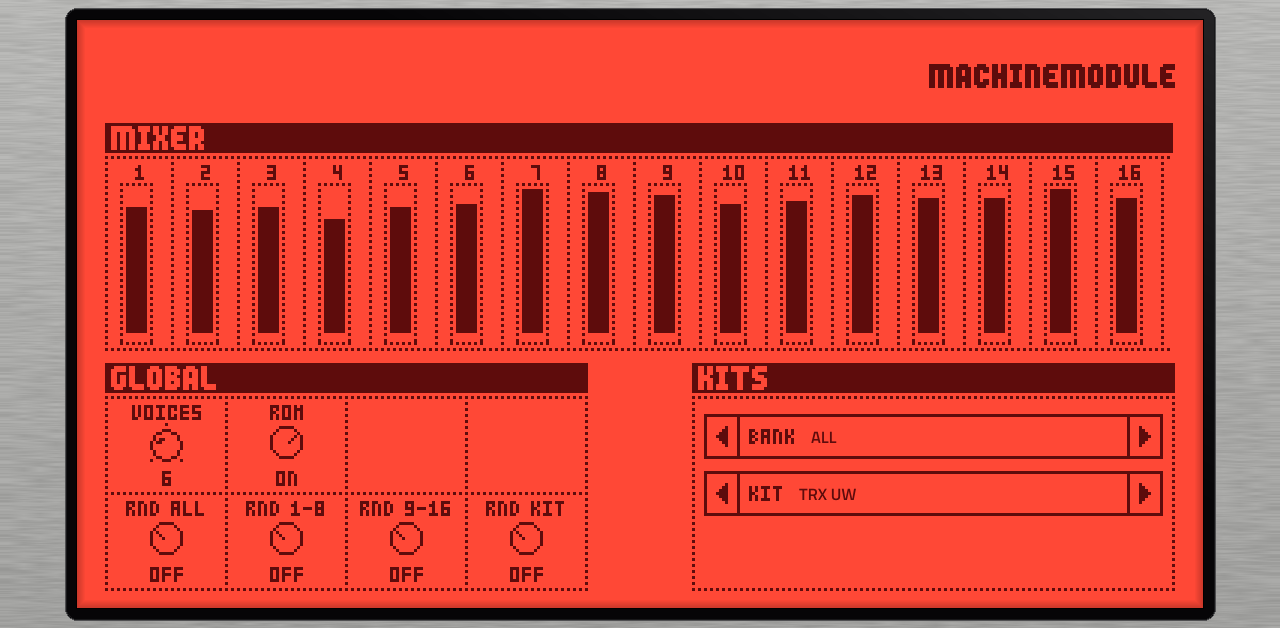
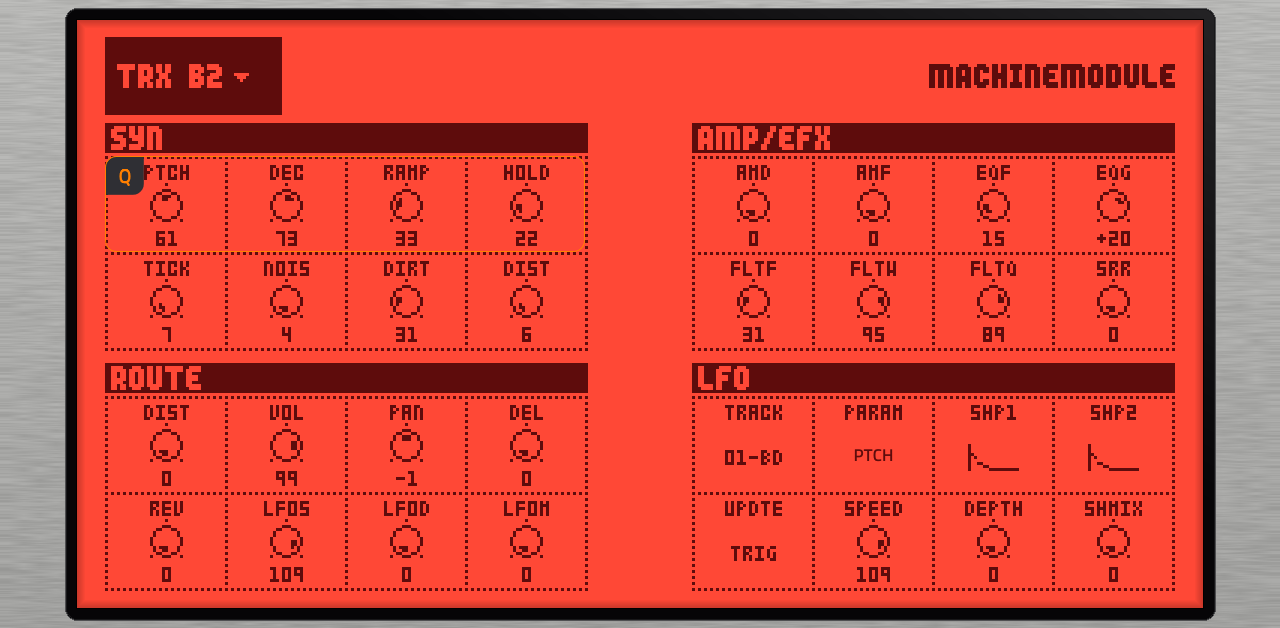
VOICES defaults to 16; the Gen2 skin has no ROM switch; screenshot is track 1
The voice budget default goes from 6 to 16 (a Live III runs 16 busy tracks at about 0.65 of a core with no
underruns once running). The Gen2 download's skin (skin_recipe.py: rom=0) leaves the ROM cell out: the JIT
build gains nothing from switching ROM machines off. The parameter stays (a Force build can still use it).

Claude-Session: https://claude.ai/code/session_01NAv23P1HLEJxTkDV8B6T4B

diff --git a/tools/mdskin/mk_skin.py b/tools/mdskin/mk_skin.py
@@ -757,11 +757,12 @@ mcv.dots_h(0, MW - 1, GRID_Y); mcv.dots_v(TRACKS * MCW, GRID_Y, PAGE_LCD_H - 1);
 mx0, my0 = page_origin("SYN")
 gbg = TRACK_CHASSIS.copy()
 gbg.paste(mcv.image(), (mx0, my0))
-GLOBAL_CELLS = [P("VOICES", default=42, fmt=lambda raw: str(1 + int(round(raw * 15 / 127.0)))),
-                P("ROM", "toggle", default=127), P(""), P(""),
+ROM_SWITCH = args.get("rom", "1") != "0"   # rom=0 (the Gen2 download): no ROM cell; the JIT build gains nothing from switching ROM machines off
+GLOBAL_CELLS = [P("VOICES", default=127, fmt=lambda raw: str(1 + int(round(raw * 15 / 127.0)))),
+                P("ROM", "toggle", default=127) if ROM_SWITCH else P(""), P(""), P(""),
                 P("RND ALL", "toggle"), P("RND 1-8", "toggle"), P("RND 9-16", "toggle"), P("RND KIT", "toggle")]
 # top row: VOICES and ROM (the settings); bottom row: the four randomise toggles
-GLOBAL_KEYS = ["max_voices", "rom_enabled", None, None, "randomize_all", "randomize_1_8", "randomize_9_16", "randomize_kit"]
+GLOBAL_KEYS = ["max_voices", "rom_enabled" if ROM_SWITCH else None, None, None, "randomize_all", "randomize_1_8", "randomize_9_16", "randomize_kit"]
 gcv = page_canvas("ROUTE", GLOBAL_CELLS, "GLOBAL")
 gbg.paste(gcv.image(), page_origin("ROUTE"))
 gbg.paste(KITS_IMG, (kits_x, kits_y))
@@ -802,7 +803,7 @@ tkey = "mdToggleTouch"
 defs[tkey] = ss._local(tkey, [ss._action("Mouse Down", "Q-Link"), ss._action("Enter Pressed", "Toggle Switch")],
                        [ss._focus(TOUCH_W, TOUCH_H), ss._button("clear.png", "clear.png", 1, 1, TOUCH_W, TOUCH_H)])
 gx0, gy0 = page_origin("ROUTE")
-for k_ in (1, 4, 5, 6, 7):   # ROM on/off (the only one that stays set), then the four randomise toggles
+for k_ in ((1, 4, 5, 6, 7) if ROM_SWITCH else (4, 5, 6, 7)):   # ROM on/off (the only one that stays set), then the four randomise toggles
     p_, key_p = GLOBAL_CELLS[k_], GLOBAL_KEYS[k_]
     imgs = {}
     for state, raw in (("on", 127), ("off", 0)):

diff --git a/vst/engine.cpp b/vst/engine.cpp
@@ -391,7 +391,7 @@ struct Inst
 		for(auto& t : synUntouched) for(auto& u : t) u.store(true);
 		param[kSlotTempo].store(120);
 		param[kSlotRomEnabled].store(1);
-		param[kSlotMaxVoices].store(6);	// the VOICES knob's default (gen_params.py): a cost budget, ROM voices count double
+		param[kSlotMaxVoices].store(16);	// the VOICES knob's default (gen_params.py): a cost budget, ROM voices count double
 		// Matches gen_params.py's declared defaults: the host normally pushes these via set_param right
 		// after create(), but this is what plays if render() is called before that (or from a host that
 		// doesn't restore params on creation).

diff --git a/vst/gen_params.py b/vst/gen_params.py
@@ -56,7 +56,7 @@ for t in range(16):
     sections.append(("TRACK %d" % (t + 1), keys))
 
 params.append({"key": "tempo", "name": "Tempo", "min": 30, "max": 300, "default": 120, "display": "int"})
-params.append({"key": "max_voices", "name": "Voice Budget", "min": 1, "max": 16, "default": 6, "display": "int"})
+params.append({"key": "max_voices", "name": "Voice Budget", "min": 1, "max": 16, "default": 16, "display": "int"})
 sections.append(("GLOBAL", ["tempo", "max_voices", "rom_enabled"]))
 
 # Machine picker "open" flags (HANDOFF.md, "Machine picker: duplicating Monomodule's own design").

diff --git a/tools/mdskin/skin_recipe.py b/tools/mdskin/skin_recipe.py
@@ -29,7 +29,7 @@ from PIL import Image
 HERE = os.path.dirname(os.path.abspath(__file__))
 ROOT = os.path.dirname(os.path.dirname(HERE))
 # the two skins, as build_skin.sh makes them: (generator, its arguments after art.json, the output dir relative to <run dir>)
-SKINS = [("mk_skin.py", ["{machines}", "vst/params.json"], "main"),
+SKINS = [("mk_skin.py", ["{machines}", "vst/params.json"], "main", ["rom=0"]),
          ("mk_tap_skin.py", ["vst/tapfx/params.json"], "tapfx", ["fx"])]
 
 

diff --git a/README.md b/README.md
@@ -53,7 +53,7 @@ A first-generation Force has four slow ARM cores shared with MPC itself, so some
   reverb and delay sends come out through the taps (below) so MPC's own effects can do that job.
 - **Taps: each track or send on its own MPC track** (added; see below). The Machinedrum's individual outputs become separate
   MPC tracks, submixes or return tracks to be processed by MPC OS insert effects.
-- **Voice budget, default 6** (added). The VOICES knob on GLOBAL is a CPU budget, not a plain voice count. Most machines cost
+- **Voice budget, default 16** (added; it was 6 until 0.5.0 - lower it on a Force, which can sound only about 6 busy voices). The VOICES knob on GLOBAL is a CPU budget, not a plain voice count. Most machines cost
   1 unit and the ROM (sample) machines cost 2, matching what they cost the Force's CPU. When a trigger would go past the
   budget, the oldest sounding track is cut, tail included. The real Machinedrum always plays all 16 tracks.
 - **Silence release** (added). A track whose sound has died away (below -96 dBFS for 100 ms, under the plugin's 16-bit
@@ -61,7 +61,7 @@ A first-generation Force has four slow ARM cores shared with MPC itself, so some
   same as a normal retrigger (noise-based machines start a fresh noise sequence, as any two hits differ anyway).
 - **The voices render on three threads** (the real Machinedrum has one voice DSP). Each thread runs its own copy of the
   voice DSP for some of the tracks, balanced by what they cost.
-- **ROM on/off switch** (GLOBAL, on by default). Off, tracks on a ROM machine stay silent and the randomiser leaves ROM
+- **ROM on/off switch** (GLOBAL, on by default; the Gen2 download has no switch, because the JIT build gains nothing from it). Off, tracks on a ROM machine stay silent and the randomiser leaves ROM
   machines out; each track keeps its ROM setting. The quickest way to make a busy kit safe.
 - **Randomise** (GLOBAL): machines on all tracks, tracks 1-8, tracks 9-16, or a random kit.
 - **GLOBAL tab:** a 16-track level mixer, VOICES, ROM, randomise, and the bank and kit selectors.
@@ -222,8 +222,9 @@ you reload the plugin once afterwards). Without the `.bin` those stay silent / a
 the plugin fills it in on the device; the flash image is extracted on the device by the shipped `extract/mdextract` helper).
 The Gen2 zips carry their own catalog ids (`machinemodule-gen2`, `machinemodule-tap-gen2`), beside the build-yourself `machinemodule`.
 
-![Machinemodule on an MPC Live III](docs/img/machinemodule-gen2.png)
+![Machinemodule on an MPC Live III: track 1](docs/img/machinemodule-gen2.png)
 ![The kit list: 16 factory kits, 32 to a page](docs/img/machinemodule-gen2-kits.png)
+![The GLOBAL tab: mixer, VOICES, randomise, banks and kits](docs/img/machinemodule-gen2-global.png)
 
 **Tested on an MPC Live III** (v0.5.0), with the plugin's own paced render test and MPC running alongside: 16 tracks of TRX machines
 use about 0.3 of a core (the 16-voice case about 0.65), with no underruns once running; ROM-machine tracks about 0.4 of a core. The
